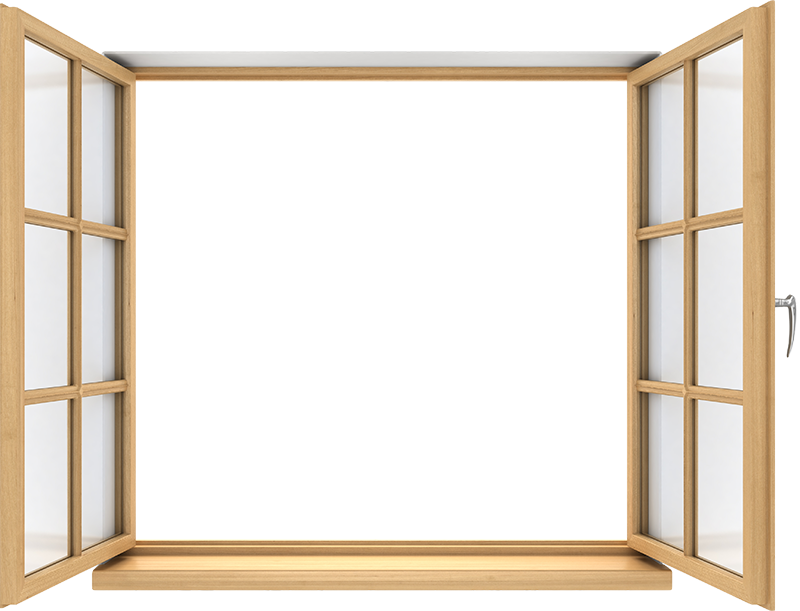
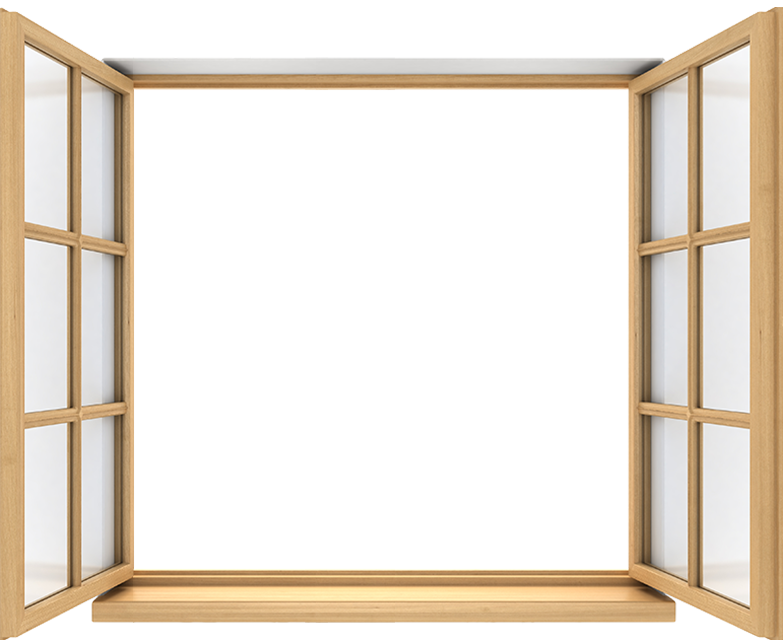
Feat: watering effect, increasing guage effect

Changed region(s): [[0.0, 0.0, 1.0, 1.0], [0.0, 0.0, 0.0307, 0.0311]]

diff --git a/src/components/RoomCanvas.jsx b/src/components/RoomCanvas.jsx
@@ -29,6 +29,13 @@ export default function RooomCanvas() {
   let bloomFilter;
   let count = 0;
   let wateringcount = 0;
+  let wateringGuageRec;
+  let sunGuageRec;
+  let wateringGuageContainer;
+  let wateringGuageRecDefault;
+  let sunGuageRecLineDefault;
+  let switchCount = 0;
+  let isBlindDown = false;
 
   const ropeLength = 4000 / 15;
 
@@ -50,19 +57,17 @@ export default function RooomCanvas() {
 
     windowSprite = new Sprite(TextureCache['openWindow']);
     windowSprite.anchor.set(0.5);
-    windowSprite.width = 670;
+    windowSprite.width = 680;
     windowSprite.height = 530;
-    windowSprite.x = app.view.width / 2 + 30;
+    windowSprite.x = app.screen.width / 2;
     windowSprite.y = windowSprite.height / 2;
-
-    const windowFrameWidth = windowSprite.x;
 
     landscape = new Sprite(TextureCache['dayTimeLandscape']);
     landscape.anchor.set(0.5);
-    landscape.width = windowFrameWidth * 0.8;
-    landscape.height = windowSprite.height * 0.8;
-    landscape.x = app.view.width / 2 + 30;
-    landscape.y = windowSprite.y;
+    landscape.width = 600;
+    landscape.height = 410;
+    landscape.x = app.screen.width / 2;
+    landscape.y = windowSprite.height / 2 + 10;
 
     plantContainer = new Container();
 
@@ -79,18 +84,18 @@ export default function RooomCanvas() {
     pot.height = 115;
     pot.y = 60;
 
+    plantContainer.anchor = 0.5;
     plantContainer.width = 200;
     plantContainer.height = 275;
     plantContainer.addChild(plant, pot);
-    plantContainer.anchor = 0;
     plantContainer.x = app.screen.width / 2 - 30;
-    plantContainer.y = app.screen.height / 2;
+    plantContainer.y = 320;
 
     blindHead = new Sprite(TextureCache['blindHead']);
     blindHead.anchor.set(0.5);
-    blindHead.x = app.screen.width / 2 + 15;
+    blindHead.x = app.screen.width / 2;
     blindHead.y = 50;
-    blindHead.width = windowFrameWidth * 0.75;
+    blindHead.width = 470;
     blindHead.height = 55;
 
     pullSwitch = new Sprite(TextureCache['pullSwitch']);
@@ -102,14 +107,19 @@ export default function RooomCanvas() {
     pullSwitch.interactive = true;
     pullSwitch.buttonMode = true;
 
+    pullSwitch.on('pointerup', doPullSwitchPointerUp);
+    pullSwitch.on('pointerdown', doPullSwitchPointerDown);
+    pullSwitch.on('pointerout', doPullSwitchPointerLeave);
+
     wateringCan = new Sprite(TextureCache['wateringCan']);
     wateringCan.anchor.set(0);
-    wateringCan.x = 1000;
-    wateringCan.y = 401;
+    wateringCan.width = 150;
+    wateringCan.height = 110;
+    wateringCan.x = app.screen.width / 2 + windowSprite.width / 2 + 10;
+    wateringCan.y = windowSprite.height - wateringCan.width;
     wateringCanX = wateringCan.x;
     wateringCanY = wateringCan.y;
-    wateringCan.width = 130;
-    wateringCan.height = 100;
+
     wateringCan.interactive = true;
     wateringCan.buttonMode = true;
     wateringCan.on('pointerup', doWateringCanPointerUp);
@@ -118,26 +128,107 @@ export default function RooomCanvas() {
 
     nail = new Sprite(TextureCache['nail']);
     nail.anchor.set(0);
-    nail.x = 1030;
-    nail.y = 410;
     nail.width = 13;
     nail.height = 13;
+    nail.x = app.screen.width / 2 + windowSprite.width / 2 + 46;
+    nail.y = windowSprite.height - wateringCan.width + 7;
+
+    wateringGuageContainer = new Container();
+
+    wateringGuageRecDefault = new PIXI.Graphics();
+    wateringGuageRecDefault.lineStyle(3, 0xffffff);
+    wateringGuageRecDefault.drawRoundedRect(
+      app.screen.width / 2 - 410,
+      windowSprite.height + 20,
+      400,
+      50,
+      25,
+    );
+
+    wateringGuageRec = new PIXI.Graphics();
+    wateringGuageRec.beginFill(0x99cee0);
+    wateringGuageRec.drawRoundedRect(
+      app.screen.width / 2 - 410,
+      windowSprite.height + 20,
+      400,
+      50,
+      25,
+    );
+
+    sunGuageRecLineDefault = new PIXI.Graphics();
+    sunGuageRecLineDefault.lineStyle(3, 0xffffff);
+    sunGuageRecLineDefault.drawRoundedRect(
+      app.screen.width / 2 + 10,
+      windowSprite.height + 20,
+      400,
+      50,
+      25,
+    );
+
+    sunGuageRec = new PIXI.Graphics();
+    sunGuageRec.beginFill(0xe0ca8c);
+    sunGuageRec.drawRoundedRect(
+      app.screen.width / 2 + 10,
+      windowSprite.height + 20,
+      400,
+      50,
+      25,
+    );
 
     app.stage.addChild(
       landscape,
       windowSprite,
-      plantContainer,
       blindHead,
+
+      plantContainer,
       pullSwitch,
       wateringCan,
       nail,
+      wateringGuageRecDefault,
+      wateringGuageRec,
+      sunGuageRecLineDefault,
+      sunGuageRec,
     );
 
-    app.ticker.add(plantMovingLoop);
+    app.ticker.add(objectMovingLoop);
 
     window.onresize = () => {
       app.resize(window.innerWidth, window.innerHeight);
     };
+  }
+
+  function doPullSwitchPointerLeave() {
+    pullSwitch.width = 13;
+    pullSwitch.height = 230;
+  }
+
+  function doPullSwitchPointerUp() {
+    pullSwitch.width = 13;
+    pullSwitch.height = 230;
+  }
+
+  function doPullSwitchPointerDown() {
+    if (isBlindDown) {
+      blindHead.texture = TextureCache['blindHead'];
+      blindHead.height = 55;
+      blindHead.y = 50;
+      isBlindDown = false;
+    } else {
+      blindHead.texture = TextureCache['blind'];
+      blindHead.height = 480;
+      blindHead.y = 250;
+      isBlindDown = true;
+    }
+    pullSwitch.width = 14;
+    pullSwitch.height = 234;
+  }
+
+  function objectMovingLoop() {
+    count += 0.05;
+
+    for (let i = 0; i < points.length; i++) {
+      points[i].y = Math.cos(i * 0.5 + count);
+    }
   }
 
   function doWateringCanPointerMove(e) {
@@ -188,32 +279,24 @@ export default function RooomCanvas() {
     ) {
       if (mouseOverPlant === true) return;
 
-      app.ticker.remove(plantMovingLoop);
+      app.ticker.remove(objectMovingLoop);
       app.ticker.add(bigMove);
       mouseOverPlant = true;
     } else {
       if (mouseOverPlant === false) return;
 
       app.ticker.remove(bigMove);
-      app.ticker.add(plantMovingLoop);
+      app.ticker.add(objectMovingLoop);
       mouseOverPlant = false;
     }
 
     if (mouseOverPlant === true) {
-      app.ticker.remove(plantMovingLoop);
+      app.ticker.remove(objectMovingLoop);
       app.ticker.add(bigMove);
     }
   }
 
-  function plantMovingLoop(delta) {
-    count += 0.05;
-
-    for (let i = 0; i < points.length; i++) {
-      points[i].y = Math.cos(i * 0.5 + count);
-    }
-  }
-
-  function watering(d) {
+  function watering() {
     if (wateringStart === true) {
       wateringcount += 0.1;
       const bloomXAmount = (Math.cos(wateringcount) + 1) / 2;
@@ -230,8 +313,19 @@ export default function RooomCanvas() {
         app.ticker.remove(watering);
         wateringcount = 0;
         wateringStart = false;
+        app.ticker.add(increaseWateringGuage);
       }, 3000);
     }
+  }
+
+  function increaseWateringGuage() {
+    const defaultGuage = 5;
+    const defaultGuageWidth = 400;
+    const oneGuageWidth = defaultGuageWidth / defaultGuage;
+
+    wateringGuageRec.width = wateringGuageRec.width - oneGuageWidth;
+    wateringGuageRec.x = wateringGuageRec.x + 52.5;
+    app.ticker.remove(increaseWateringGuage);
   }
 
   function growing() {
